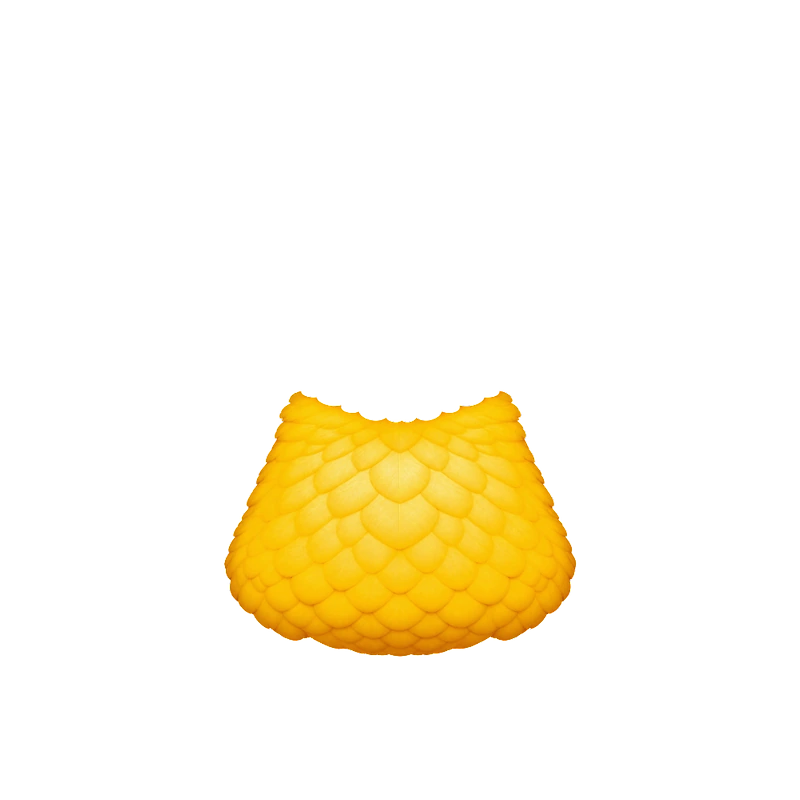
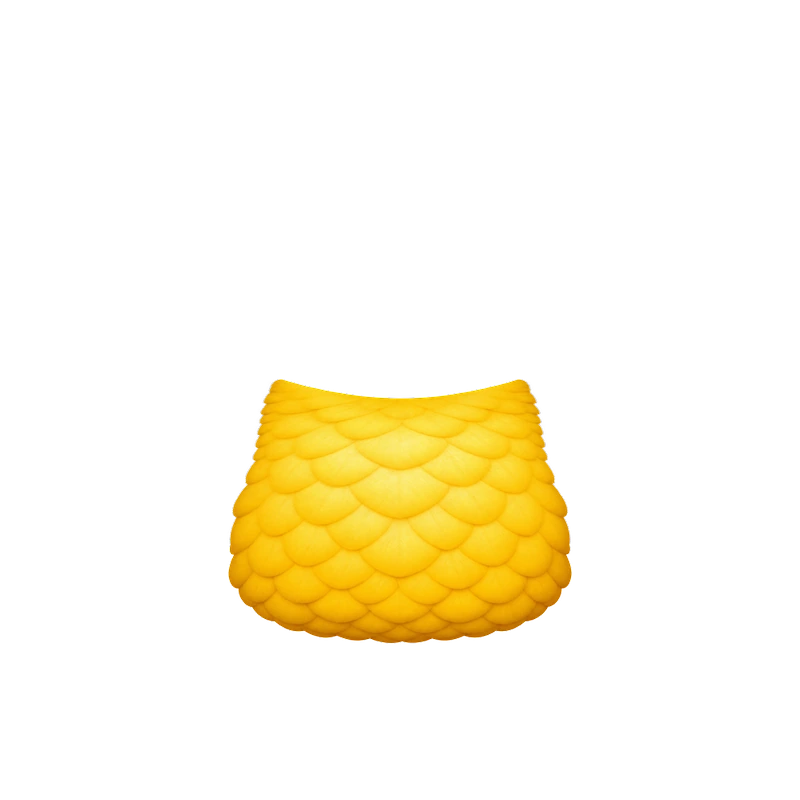
Hoot-tique: the redesigned Parrot (v0.3)
The ten Parrot layers are re-exported from the v0.3 delivery through
tools/export_bird_layers.py: seven art layers plus the three wash masks,
with each mask divided by its layer's alpha (the delivery's masks are
coverage x weight, and the app applies the layer's own alpha again). All
three washable layers came in neutral, so none needed flattening.

Registration: the new eyes sit at art y 32.7 (were 33.1), so shiftY goes
4.4 -> 4.8 to keep the shared eye line, which also puts the feet on the
rug (92.1 + 4.8 = 96.9). The wing pivot moves to the delivery's y 510,
so wingY 50.5 -> 51.0.

Claude-Session: https://claude.ai/code/session_01BftYwBApCySU9gZJ9AtT18

Changed region(s): [[0.2812, 0.4688, 0.7188, 0.8438]]

diff --git a/static/index.html b/static/index.html
@@ -5334,7 +5334,7 @@ const PROTO_BIRDS = {
     { f: 'wing-r.webp', grp: 'wingR', wash: 'wash-wing-r.webp' },
     { f: 'head.webp',   grp: 'over',  wash: 'wash-head.webp' },
   ]},
-  parrot: { dir: '/static/avatar/parrot/', shiftY: 4.4, scale: 1.2, wingY: 50.5, stack: [
+  parrot: { dir: '/static/avatar/parrot/', shiftY: 4.8, scale: 1.2, wingY: 51.0, stack: [
     { f: 'foot-l.webp', grp: 'under' },
     { f: 'foot-r.webp', grp: 'under' },
     { f: 'body.webp',   grp: 'torso' },
